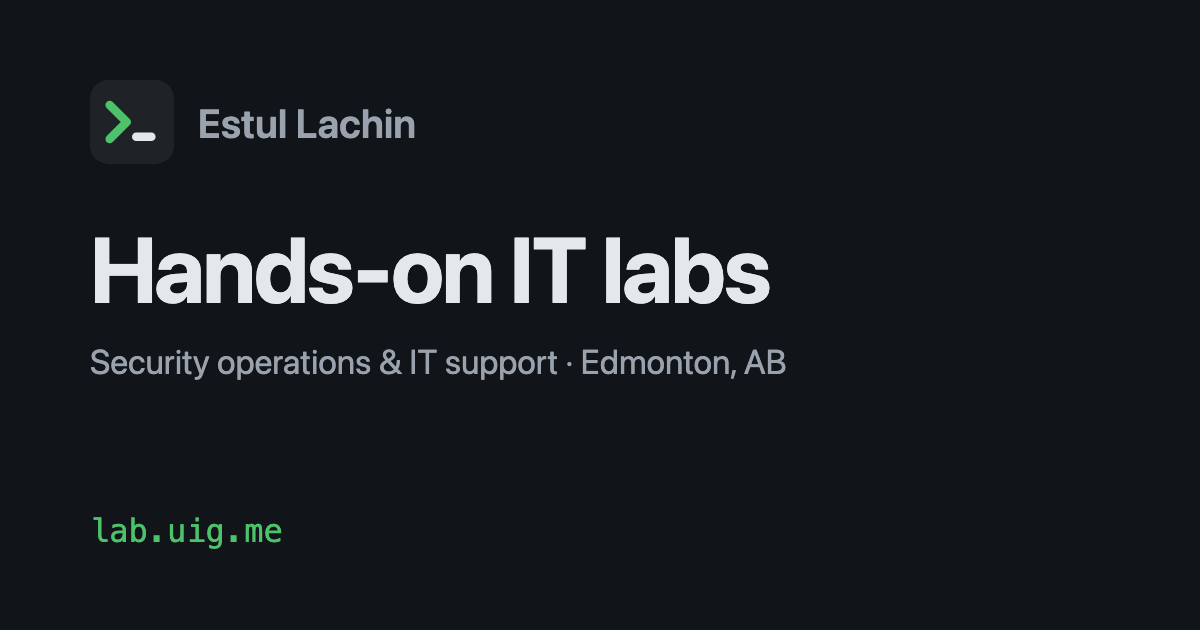
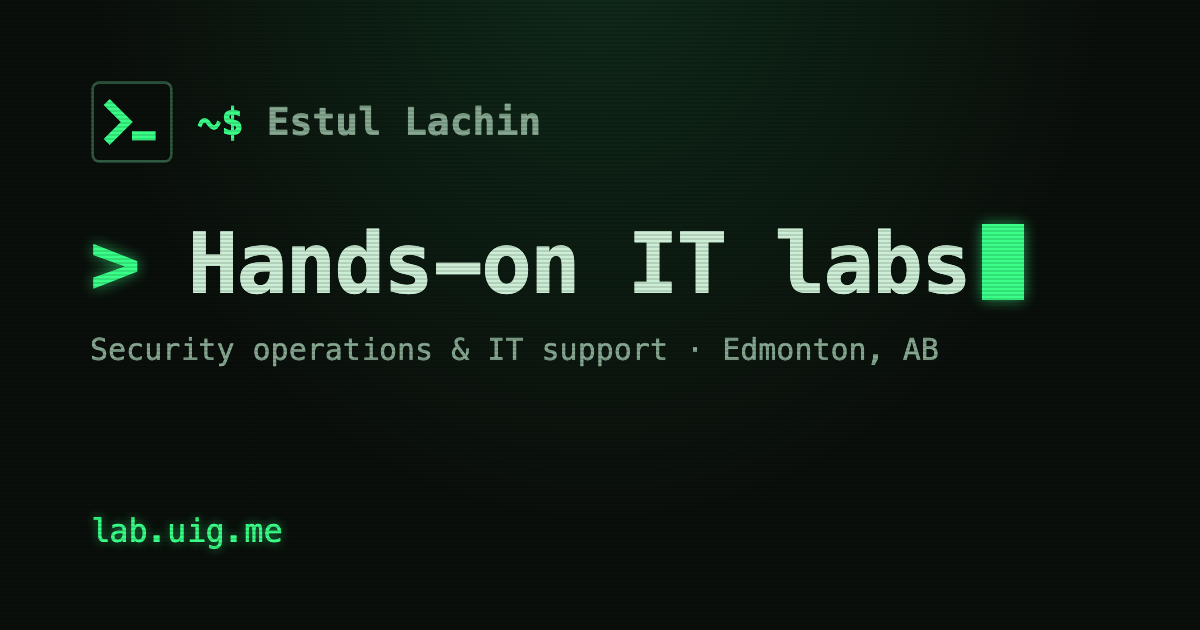
Hacker terminal theme
Dark-only terminal theme shared by all four uig.me sites: mono font, green
accent, [nav] brackets, prompt-style brand with a blinking cursor, static CRT
scanlines, glowing hover on cards. CSS only, no new origins in the CSP;
animations stop under prefers-reduced-motion and decorative prefixes are hidden
from screen readers. New favicon and link-preview image.

diff --git a/tools/site.css b/tools/site.css
@@ -1,89 +1,142 @@
-/* lab.uig.me - the only stylesheet. No JS. */
+/* lab.uig.me - the only stylesheet. No JS.
+   Terminal theme shared by uig.me, lab, honeypot and detections: keep the tokens and the
+   "shared chrome" block identical across the four sites. */
 
 :root {
-  --bg: #fbfbfa;
-  --surface: #ffffff;
-  --text: #1f2328;
-  --muted: #5d646d;
-  --border: #e3e4e6;
-  --accent: #0b6bcb;
-  --ok: #1a7f37;
-  --chip: #eef1f4;
-  --code-bg: #f3f4f6;
-  --radius: 8px;
-  --font: system-ui, -apple-system, "Segoe UI", Roboto, "Helvetica Neue", Arial, sans-serif;
-  --mono: ui-monospace, SFMono-Regular, Menlo, Consolas, "Liberation Mono", monospace;
-  color-scheme: light dark;
+  --bg: #0a0f0b;
+  --surface: #0f1712;
+  --text: #cdeed6;
+  --muted: #86a891;
+  --dim: #6f8f79;
+  --border: #20392a;
+  --border-strong: #2f5a41;
+  --accent: #39ff88;
+  --accent-2: #4fd6ff;
+  --warn: #ffb347;
+  --danger: #ff5c7a;
+  --ok: #39ff88;
+  --chip: #12211a;
+  --code-bg: #0c1a12;
+  --glow: 0 0 6px rgba(57, 255, 136, 0.45);
+  --radius: 2px;
+  --font: ui-monospace, SFMono-Regular, "SF Mono", Menlo, Consolas, "Liberation Mono", monospace;
+  --mono: var(--font);
+  color-scheme: dark;
 }
 
-@media (prefers-color-scheme: dark) {
-  :root {
-    --bg: #111418;
-    --surface: #181c21;
-    --text: #e4e7eb;
-    --muted: #9aa3ad;
-    --border: #2b3139;
-    --accent: #5aa9f5;
-    --ok: #4cc26a;
-    --chip: #232931;
-    --code-bg: #1f242b;
-  }
-}
+/* ---------------------------------------------------------------- shared chrome */
 
 * { box-sizing: border-box; }
 
-html { -webkit-text-size-adjust: 100%; }
+html { -webkit-text-size-adjust: 100%; background: var(--bg); }
 
 body {
   margin: 0;
-  background: var(--bg);
+  min-height: 100vh;
+  background:
+    radial-gradient(ellipse at 50% -10%, rgba(57, 255, 136, 0.07), transparent 60%),
+    var(--bg);
   color: var(--text);
-  font: 16px/1.6 var(--font);
+  font: 15px/1.7 var(--font);
 }
 
+/* CRT scanlines: static, decorative, never intercepts clicks */
+body::before {
+  content: ""; position: fixed; inset: 0; z-index: 100; pointer-events: none;
+  background: repeating-linear-gradient(to bottom, rgba(0, 0, 0, 0) 0, rgba(0, 0, 0, 0) 2px,
+    rgba(0, 0, 0, 0.18) 3px, rgba(0, 0, 0, 0) 4px);
+}
+
+::selection { background: var(--accent); color: var(--bg); }
+
 a { color: var(--accent); text-decoration: none; }
-a:hover { text-decoration: underline; }
+a:hover { text-decoration: underline; text-underline-offset: 3px; text-shadow: var(--glow); }
+:focus-visible { outline: 1px dashed var(--accent); outline-offset: 3px; }
 
 .wrap { max-width: 860px; margin: 0 auto; padding: 0 16px; }
 
-/* header / footer */
-.site-header { border-bottom: 1px solid var(--border); background: var(--surface); }
+/* the sticky header must not cover in-page anchor targets */
+[id] { scroll-margin-top: 72px; }
+
+.site-header {
+  border-bottom: 1px solid var(--border); background: rgba(10, 15, 11, 0.85);
+  position: sticky; top: 0; z-index: 10; backdrop-filter: blur(6px);
+}
 .site-header .wrap { display: flex; align-items: center; justify-content: space-between; height: 56px; gap: 16px; }
-.brand { font-weight: 700; color: var(--text); letter-spacing: -0.01em; white-space: nowrap; }
-.site-header nav { display: flex; gap: 20px; }
+.brand { font-weight: 700; color: var(--text); white-space: nowrap; }
+.brand::before { content: "~$ "; content: "~$ " / ""; color: var(--accent); text-shadow: var(--glow); }
+.brand::after {
+  content: ""; display: inline-block; width: 0.55em; height: 1.05em; margin-left: 4px;
+  vertical-align: -0.15em; background: var(--accent); box-shadow: var(--glow);
+  animation: blink 1.1s steps(1) infinite;
+}
+.brand:hover { text-decoration: none; }
+.site-header nav { display: flex; flex-wrap: wrap; gap: 6px 18px; }
 .site-header nav a { color: var(--muted); }
-.site-header nav a[aria-current="page"] { color: var(--text); font-weight: 600; }
-.site-footer { border-top: 1px solid var(--border); margin-top: 64px; padding: 24px 0; color: var(--muted); font-size: 14px; }
+.site-header nav a::before { content: "["; content: "[" / ""; color: var(--dim); margin-right: 2px; }
+.site-header nav a::after { content: "]"; content: "]" / ""; color: var(--dim); margin-left: 2px; }
+.site-header nav a:hover { color: var(--accent); text-decoration: none; }
+.site-header nav a[aria-current="page"] { color: var(--accent); text-shadow: var(--glow); }
+.site-header nav a[aria-current="page"]::before,
+.site-header nav a[aria-current="page"]::after { color: var(--accent); }
+
+.site-footer { border-top: 1px dashed var(--border); margin-top: 64px; padding: 24px 0; color: var(--dim); font-size: 13px; }
+.site-footer .wrap::before { content: "// "; content: "// " / ""; color: var(--dim); }
+.site-footer .credit { margin: 8px 0 0; }
 .site-footer a { color: var(--muted); }
+.site-footer a:hover { color: var(--accent); }
+
+h1 { font-size: 1.75rem; line-height: 1.3; margin: 0 0 12px; letter-spacing: -0.01em; }
+h1::before { content: "> "; content: "> " / ""; color: var(--accent); text-shadow: var(--glow); }
+h2 { font-size: 1.15rem; margin: 40px 0 12px; }
+h2::before { content: "## "; content: "## " / ""; color: var(--dim); font-weight: 400; }
+h3 { font-size: 1rem; margin: 0 0 6px; }
+
+@keyframes blink { 50% { opacity: 0; } }
+
+@media (prefers-reduced-motion: reduce) {
+  *, *::before, *::after { animation: none !important; transition: none !important; }
+}
+
+@media print {
+  body::before, .brand::after { display: none; }
+  .site-header { position: static; }
+}
+
+/* ---------------------------------------------------------------- lab.uig.me */
 
 main.wrap { padding-top: 32px; }
 
-h1 { font-size: 1.9rem; line-height: 1.25; margin: 0 0 12px; letter-spacing: -0.01em; }
-h2 { font-size: 1.3rem; margin: 40px 0 12px; }
-h3 { font-size: 1.05rem; margin: 0 0 6px; }
-.small-heading { font-size: 0.85rem; text-transform: uppercase; letter-spacing: 0.06em; color: var(--muted); }
-.lead, .intro p { color: var(--muted); max-width: 640px; }
-.intro .byline { color: var(--text); font-weight: 600; margin: -4px 0 12px; }
-.empty { color: var(--muted); font-style: italic; }
+.small-heading { font-size: 0.8rem; text-transform: uppercase; letter-spacing: 0.12em; color: var(--muted); }
+h2.small-heading::before { content: "// "; content: "// " / ""; }
+.lead, .intro p { color: var(--muted); max-width: 660px; }
+.intro .byline { color: var(--accent-2); font-weight: 600; margin: -4px 0 12px; }
+.empty { color: var(--muted); }
+.empty::before { content: "[-] "; content: "[-] " / ""; color: var(--warn); }
 
 /* stats */
 .stats { display: flex; flex-wrap: wrap; gap: 12px; margin: 24px 0 8px; }
 .stat {
-  background: var(--surface); border: 1px solid var(--border); border-radius: var(--radius);
-  padding: 12px 18px; min-width: 150px; display: flex; flex-direction: column;
+  background: var(--surface); border: 1px solid var(--border); border-left: 2px solid var(--accent);
+  border-radius: var(--radius); padding: 12px 18px; min-width: 160px; display: flex; flex-direction: column;
 }
-.stat .num { white-space: nowrap; font-size: 1.5rem; font-weight: 700; font-variant-numeric: tabular-nums; }
-.stat .label { color: var(--muted); font-size: 14px; }
+.stat .num {
+  white-space: nowrap; font-size: 1.6rem; font-weight: 700; font-variant-numeric: tabular-nums;
+  color: var(--accent); text-shadow: var(--glow);
+}
+.stat .label { color: var(--muted); font-size: 13px; text-transform: uppercase; letter-spacing: 0.06em; }
 
 /* passed by category */
 .by-category { list-style: none; padding: 0; margin: 0; display: flex; flex-wrap: wrap; gap: 8px; }
 .by-category li {
   display: flex; align-items: center; gap: 8px; background: var(--surface);
-  border: 1px solid var(--border); border-radius: 999px; padding: 3px 6px 3px 14px; font-size: 15px;
+  border: 1px solid var(--border); border-radius: var(--radius); padding: 3px 6px 3px 12px; font-size: 14px;
 }
+.by-category li:hover { border-color: var(--accent); }
 .by-category a { color: var(--text); }
+.by-category a:hover { color: var(--accent); }
 .by-category .count {
-  background: var(--chip); border-radius: 999px; padding: 0 9px; color: var(--muted);
+  background: var(--chip); border-radius: var(--radius); padding: 0 8px; color: var(--accent);
   font-size: 13px; font-variant-numeric: tabular-nums;
 }
 
@@ -91,64 +144,78 @@ h3 { font-size: 1.05rem; margin: 0 0 6px; }
 .cards { display: grid; grid-template-columns: repeat(auto-fill, minmax(250px, 1fr)); gap: 14px; }
 .card {
   background: var(--surface); border: 1px solid var(--border); border-radius: var(--radius);
-  padding: 16px 18px; display: flex; flex-direction: column;
+  padding: 16px 18px; display: flex; flex-direction: column; position: relative;
+  transition: border-color 0.15s, box-shadow 0.15s;
 }
-.card p { margin: 0 0 10px; color: var(--muted); font-size: 15px; }
-.card .status { margin: auto 0 0; color: var(--ok); font-size: 14px; font-weight: 600; }
-.card .status.project { color: var(--muted); }
+.card:hover { border-color: var(--accent); box-shadow: 0 0 0 1px rgba(57, 255, 136, 0.15), 0 0 18px rgba(57, 255, 136, 0.12); }
+.card h3 a { color: var(--text); }
+.card:hover h3 a { color: var(--accent); }
+.card p { margin: 0 0 10px; color: var(--muted); font-size: 14px; }
+.card .status { margin: auto 0 0; color: var(--ok); font-size: 13px; font-weight: 600; }
+.card .status.project { color: var(--accent-2); }
 .badge {
-  display: inline-block; border: 1px dashed var(--border); border-radius: 999px; padding: 1px 10px;
-  font-size: 13px; color: var(--muted);
+  display: inline-block; border: 1px dashed var(--border-strong); border-radius: var(--radius); padding: 0 8px;
+  font-size: 12px; color: var(--warn);
 }
 .tags { list-style: none; padding: 0; margin: 0 0 12px; display: flex; flex-wrap: wrap; gap: 6px; }
-.tags li { background: var(--chip); border-radius: 999px; padding: 1px 10px; font-size: 13px; color: var(--muted); }
+.tags li { background: var(--chip); border-radius: var(--radius); padding: 0 8px; font-size: 12px; color: var(--muted); }
+.tags li::before { content: "#"; content: "#" / ""; color: var(--dim); }
 
 /* lab page */
-.lab-header .meta { color: var(--muted); font-size: 14px; margin: 0 0 6px; }
-.lab-header .summary { font-size: 1.1rem; color: var(--muted); margin: 0 0 12px; }
+.lab-header .meta { color: var(--dim); font-size: 13px; margin: 0 0 6px; }
+.lab-header .summary { font-size: 1.05rem; color: var(--muted); margin: 0 0 12px; }
 .record {
   display: flex; flex-wrap: wrap; align-items: center; justify-content: space-between; gap: 12px 24px;
-  border: 1px solid var(--border); border-radius: var(--radius); background: var(--surface);
-  padding: 12px 18px; margin: 20px 0 8px;
+  border: 1px solid var(--border); border-left: 2px solid var(--accent); border-radius: var(--radius);
+  background: var(--surface); padding: 12px 18px; margin: 20px 0 8px;
 }
 .record dl { display: flex; flex-wrap: wrap; gap: 8px 28px; margin: 0; }
-.record dt { font-size: 13px; color: var(--muted); }
-.record dd { margin: 0; font-weight: 600; font-variant-numeric: tabular-nums; }
+.record dt { font-size: 12px; color: var(--dim); text-transform: uppercase; letter-spacing: 0.06em; }
+.record dd { margin: 0; font-weight: 600; font-variant-numeric: tabular-nums; color: var(--accent); }
 .checks ul { list-style: none; padding: 0; }
-.checks li { padding: 4px 0 4px 28px; position: relative; }
-.checks li::before { content: "✓"; position: absolute; left: 4px; color: var(--ok); font-weight: 700; }
-.checks .note { color: var(--muted); font-size: 14px; margin-top: -4px; }
+.checks li { padding: 4px 0 4px 36px; position: relative; }
+.checks li::before { content: "[+]"; content: "[+]" / ""; position: absolute; left: 0; color: var(--ok); font-weight: 700; text-shadow: var(--glow); }
+.checks .note { color: var(--muted); font-size: 13px; margin-top: -4px; }
 
 /* rendered README */
 .readme { overflow-wrap: break-word; }
-.readme h2 { border-bottom: 1px solid var(--border); padding-bottom: 6px; }
-.readme code { font-family: var(--mono); font-size: 0.9em; background: var(--code-bg); padding: 0.1em 0.35em; border-radius: 4px; }
-.readme pre { background: var(--code-bg); padding: 12px 14px; border-radius: var(--radius); overflow-x: auto; }
-.readme pre code { background: none; padding: 0; }
+.readme h2 { border-bottom: 1px dashed var(--border); padding-bottom: 6px; }
+.readme code { font-family: var(--mono); font-size: 0.92em; background: var(--code-bg); color: var(--accent-2); padding: 0.1em 0.35em; border-radius: var(--radius); }
+.readme pre {
+  background: var(--code-bg); border: 1px solid var(--border); border-radius: var(--radius);
+  padding: 34px 14px 12px; overflow-x: auto; position: relative;
+}
+.readme pre::before {
+  content: "● ● ●"; content: "● ● ●" / ""; position: absolute; top: 6px; left: 12px; font-size: 10px; letter-spacing: 2px; color: var(--border-strong);
+}
+.readme pre code { background: none; padding: 0; color: var(--text); }
 .readme details {
   border: 1px solid var(--border); border-radius: var(--radius); padding: 8px 14px; margin: 16px 0;
   background: var(--surface);
 }
-.readme summary { cursor: pointer; font-weight: 600; }
+.readme summary { cursor: pointer; font-weight: 600; color: var(--accent-2); }
 .readme details[open] summary { margin-bottom: 4px; }
 .readme img { max-width: 100%; height: auto; border: 1px solid var(--border); border-radius: var(--radius); }
 .readme table { border-collapse: collapse; display: block; overflow-x: auto; }
 .readme th, .readme td { border: 1px solid var(--border); padding: 6px 10px; }
+.readme th { background: var(--surface); color: var(--accent); text-align: left; }
+.readme blockquote { margin: 16px 0; padding: 4px 14px; border-left: 2px solid var(--accent-2); color: var(--muted); }
 
 /* timeline */
-.timeline { list-style: none; padding: 0; margin: 24px 0; border-left: 2px solid var(--border); }
+.timeline { list-style: none; padding: 0; margin: 24px 0; border-left: 1px dashed var(--border-strong); }
 .timeline li { display: flex; flex-wrap: wrap; gap: 4px 16px; align-items: baseline; padding: 8px 0 8px 18px; position: relative; }
 .timeline li::before {
-  content: ""; position: absolute; left: -6px; top: 16px; width: 10px; height: 10px;
-  border-radius: 50%; background: var(--ok);
+  content: ""; position: absolute; left: -5px; top: 17px; width: 9px; height: 9px;
+  background: var(--ok); box-shadow: var(--glow);
 }
-.timeline time { font-variant-numeric: tabular-nums; color: var(--muted); min-width: 92px; }
-.timeline .count { color: var(--muted); font-size: 14px; }
+.timeline time { font-variant-numeric: tabular-nums; color: var(--accent-2); min-width: 100px; }
+.timeline .count { color: var(--muted); font-size: 13px; }
 
 @media (max-width: 520px) {
+  .site-header { position: static; }
   .site-header .wrap { flex-wrap: wrap; height: auto; padding-top: 10px; padding-bottom: 10px; row-gap: 2px; }
-  .site-header nav { gap: 16px; }
-  h1 { font-size: 1.55rem; }
+  .site-header nav { gap: 4px 14px; }
+  h1 { font-size: 1.4rem; }
   .stat { flex: 1 1 140px; min-width: 0; padding: 12px 14px; }
-  .stat .num { font-size: 1.25rem; }
+  .stat .num { font-size: 1.3rem; }
 }

diff --git a/tools/assets/og-image.html b/tools/assets/og-image.html
@@ -3,16 +3,25 @@
 <html><head><meta charset="utf-8"><style>
   html, body { margin: 0; width: 1200px; height: 630px; overflow: hidden; }
   body {
-    background: #111418; color: #e4e7eb; box-sizing: border-box; padding: 80px 90px;
-    font-family: system-ui, -apple-system, "Segoe UI", Roboto, "Helvetica Neue", Arial, sans-serif;
+    background: radial-gradient(ellipse at 50% -10%, rgba(57,255,136,0.12), transparent 60%), #0a0f0b;
+    color: #cdeed6; box-sizing: border-box; padding: 80px 90px; position: relative;
+    font-family: ui-monospace, SFMono-Regular, "SF Mono", Menlo, monospace;
     display: flex; flex-direction: column;
+  }
+  body::before {
+    content: ""; position: absolute; inset: 0;
+    background: repeating-linear-gradient(to bottom, transparent 0, transparent 2px, rgba(0,0,0,0.25) 3px, transparent 4px);
   }
   .top { display: flex; align-items: center; gap: 24px; }
   .top img { width: 84px; height: 84px; }
-  .name { font-size: 40px; font-weight: 600; color: #9aa3ad; }
-  h1 { font-size: 92px; line-height: 1.05; margin: 56px 0 24px; letter-spacing: -0.02em; }
-  .by { font-size: 34px; color: #9aa3ad; }
-  .url { margin-top: auto; font-size: 32px; color: #4cc26a; font-family: ui-monospace, Menlo, monospace; }
+  .name { font-size: 38px; font-weight: 600; color: #86a891; }
+  .name::before { content: "~$ "; color: #39ff88; }
+  h1 { font-size: 84px; line-height: 1.05; margin: 56px 0 24px; letter-spacing: -0.02em; }
+  h1::before { content: "> "; color: #39ff88; text-shadow: 0 0 14px rgba(57,255,136,0.6); }
+  h1::after { content: ""; display: inline-block; width: 0.5em; height: 0.9em; margin-left: 12px; vertical-align: -0.08em;
+    background: #39ff88; box-shadow: 0 0 14px rgba(57,255,136,0.6); }
+  .by { font-size: 30px; color: #86a891; }
+  .url { margin-top: auto; font-size: 32px; color: #39ff88; text-shadow: 0 0 10px rgba(57,255,136,0.5); }
 </style></head><body>
   <div class="top"><img src="favicon.svg" alt=""><span class="name">Estul Lachin</span></div>
   <h1>Hands-on IT labs</h1>

diff --git a/docs/design.md b/docs/design.md
@@ -263,7 +263,7 @@ meaning:
 - `./lab shot` works for projects too
 
 ### Design
-- One CSS file, no JS framework; works at phone width; dark mode via `prefers-color-scheme`
+- One CSS file, no JS framework; works at phone width; a dark terminal theme (mono font, green accent, CSS-only scanlines and cursor; animations off under `prefers-reduced-motion`) shared with the other uig.me sites
 - Clean, like technical docs / a portfolio — nothing flashy
 - No personal contact details (phone, email); only links to LinkedIn
   (https://www.linkedin.com/in/estul-lachin) and https://github.com/estul-lachin, in the footer
